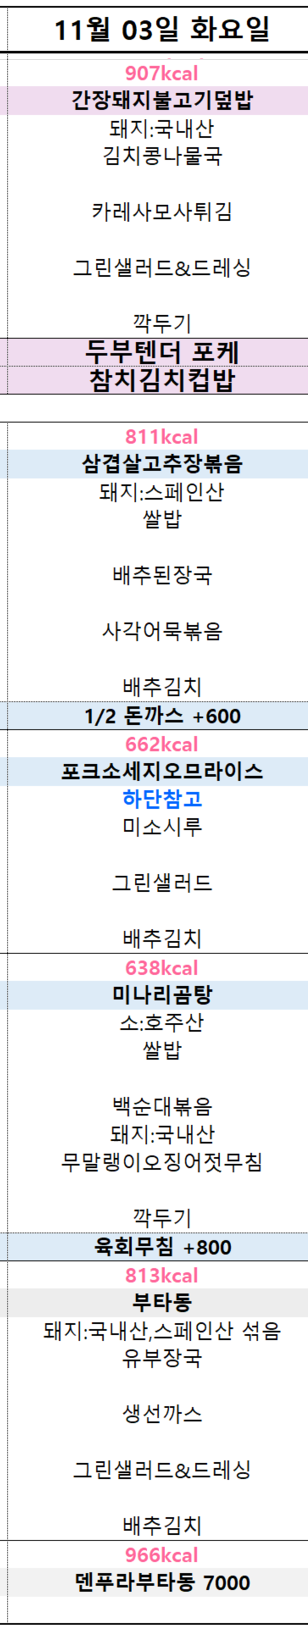
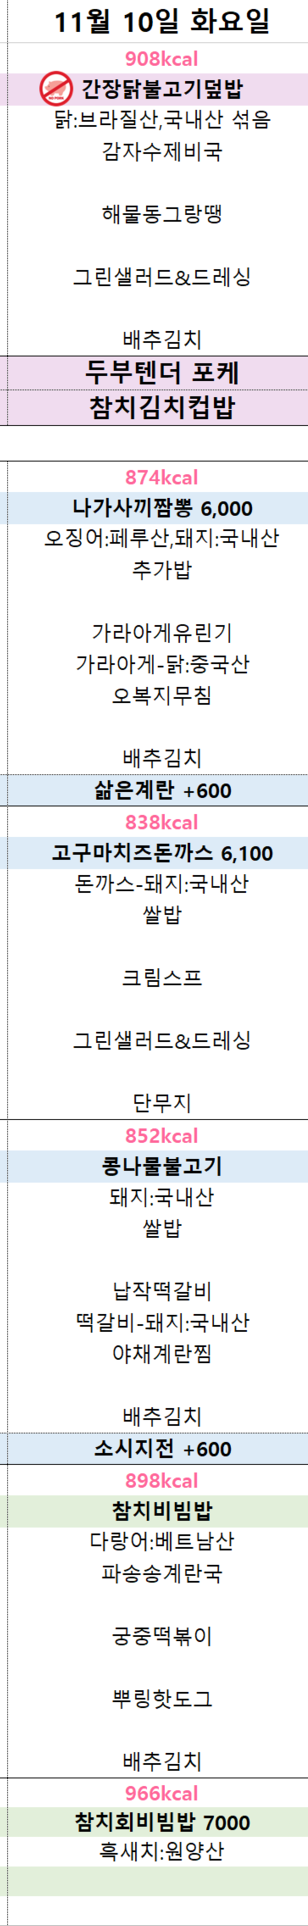
feat(menu): publish reviewed November 9-13 meals and complete day crops

diff --git a/sw.js b/sw.js
@@ -1,4 +1,4 @@
-const CACHE = 'khu-meals-v15';
+const CACHE = 'khu-meals-v16';
 const ASSETS = ['./', './index.html', './manifest.webmanifest', './icon.svg'];
 self.addEventListener('install', event => event.waitUntil(caches.open(CACHE).then(cache => cache.addAll(ASSETS)).then(() => self.skipWaiting())));
 self.addEventListener('activate', event => event.waitUntil(caches.keys().then(keys => Promise.all(keys.filter(key => key !== CACHE).map(key => caches.delete(key)))).then(() => self.clients.claim())));

diff --git a/tests/test_day_crops.py b/tests/test_day_crops.py
@@ -1,0 +1,55 @@
+"""Day-image coverage across the reviewed short and tall table layouts."""
+
+import importlib.util
+from io import BytesIO
+from pathlib import Path
+import unittest
+
+from PIL import Image, ImageChops, ImageDraw
+
+ROOT = Path(__file__).resolve().parents[1]
+SPEC = importlib.util.spec_from_file_location("crop_updater", ROOT / "scripts/update-menu.py")
+assert SPEC is not None and SPEC.loader is not None
+updater = importlib.util.module_from_spec(SPEC)
+SPEC.loader.exec_module(updater)
+
+
+class DayCropTests(unittest.TestCase):
+    def test_day_strips_preserve_dates_and_every_student_row_without_faculty_or_origin(self):
+        # Synthetic geometry reproduces the two visually reviewed source layouts.
+        for height, student_top, student_bottom in [(2782, 467, 2350), (2479, 482, 2046)]:
+            with self.subTest(height=height):
+                image = Image.new("RGB", (1920, height), "white")
+                draw = ImageDraw.Draw(image)
+                for top, bottom in [(100, 101), (145, 146), (student_top - 2, student_top - 1),
+                                    (885, 885), (1543, 1543), (1888, 1888),
+                                    (student_bottom, student_bottom)]:
+                    draw.rectangle((40, top, 1880, bottom), fill="black")
+                # Mark printed dates, faculty meals, first/last student rows and origin notes.
+                for day in range(5):
+                    left = int(1920 * (.159 + day * .1625)) + 2
+                    right = int(1920 * (.159 + (day + 1) * .1625)) - 2
+                    for top, bottom, color in [(110, 135, "blue"), (160, 200, "magenta"),
+                                               (student_top + 3, student_top + 30, "green"),
+                                               (student_bottom - 30, student_bottom - 3, "orange"),
+                                               (student_bottom + 10, student_bottom + 30, "red")]:
+                        draw.rectangle((left + 4, top, right - 4, bottom), fill=color)
+                # An antialiased rule pixel must not be mistaken for the origin block.
+                image.putpixel((96, int(height * .785)), (159, 169, 194))
+                buffer = BytesIO()
+                image.save(buffer, format="PNG")
+                strips = updater.crop_days(buffer.getvalue())
+                self.assertEqual(len(strips), 5)
+                for day, raw in enumerate(strips):
+                    left = int(1920 * (.159 + day * .1625)) + 2
+                    right = int(1920 * (.159 + (day + 1) * .1625)) - 2
+                    expected = Image.new("RGB", (right - left, 43 + student_bottom - student_top), "white")
+                    expected.paste(image.crop((left, 102, right, 145)), (0, 0))
+                    expected.paste(image.crop((left, student_top, right, student_bottom)), (0, 43))
+                    actual = Image.open(BytesIO(raw)).convert("RGB")
+                    self.assertEqual(actual.size, expected.size, "full breakfast through special dinner must survive")
+                    self.assertIsNone(ImageChops.difference(actual, expected).getbbox())
+
+
+if __name__ == "__main__":
+    unittest.main()

diff --git a/scripts/update-menu.py b/scripts/update-menu.py
@@ -57,23 +57,24 @@ def find_official_image():
 def crop_days(raw):
     image = Image.open(BytesIO(raw)).convert("RGB")
     width, height = image.size
-    # Preserve the printed dates and all student meals; no menu text is inferred.
-    top = (int(height * .038), int(height * .062))
-    body_top = int(height * .205)
+    # Use full-width table rules, not fixed height fractions or a single colored
+    # pixel: taller menus move breakfast upward and can have white origin notes.
     sample_x = range(40, width - 40, 12)
-    for y in range(int(height * .18), int(height * .25)):
+    rules = []
+    for y in range(int(height * .025), int(height * .95)):
         dark = sum(max(image.getpixel((x, y))) < 125 for x in sample_x)
         if dark > len(sample_x) * .65:
-            body_top = y + 2
-            break
-    # The purple origin-of-ingredients block starts after the final dinner row.
-    origin_top = int(height * .91)
-    for y in range(int(height * .78), int(height * .94)):
-        red, green, blue = image.getpixel((int(width * .05), y))
-        if blue > red + 15 and blue > green + 15 and red > 140:
-            origin_top = y
-            break
-    body = (body_top, origin_top)
+            if rules and y == rules[-1][1] + 1:
+                rules[-1][1] = y
+            else:
+                rules.append([y, y])
+    header_rules = [rule for rule in rules if rule[0] < height * .09]
+    student_starts = [rule for rule in rules if height * .10 < rule[0] < height * .30]
+    student_ends = [rule for rule in rules if height * .70 < rule[0] < height * .92]
+    if len(header_rules) < 2 or not student_starts or not student_ends:
+        raise RuntimeError("식단표의 날짜·학생식당 경계선을 확인하지 못했습니다")
+    top = (header_rules[0][1] + 1, header_rules[1][0])
+    body = (student_starts[0][1] + 1, student_ends[-1][0])
     output = []
     for day in range(5):
         left = int(width * (.159 + day * .1625)) + 2
@@ -132,7 +133,7 @@ def main(*, publish_reviewed=False):
         "weekStart": image_week.isoformat(),
         "updatedAt": datetime.now(KST).strftime("%Y-%m-%d %H:%M KST"),
         "sha256": digest,
-        "layoutVersion": 4,
+        "layoutVersion": 5,
     }
     review_week_allowed = image_week == current_week or (
         today.weekday() == 6 and image_week == current_week + timedelta(days=7))
@@ -158,7 +159,7 @@ def main(*, publish_reviewed=False):
                 json.dumps(metadata, ensure_ascii=False, indent=2) + "\n", encoding="utf-8")
             print(f"공식 식단 변경 검토 대기: {uploaded} (기존 검증 식단 유지)")
             return
-        if old.get("sha256") == digest and old.get("sourceImage") == url and old.get("layoutVersion") == 4 and FULL.exists() and all(p.exists() for p in DAY_FILES):
+        if old.get("sha256") == digest and old.get("sourceImage") == url and old.get("layoutVersion") == 5 and FULL.exists() and all(p.exists() for p in DAY_FILES):
             (DATA / "pending-menu.json").unlink(missing_ok=True)
             print(f"변경 없음: {uploaded} 공식 식단 이미지")
             return

diff --git a/tests/test_update_menu.py b/tests/test_update_menu.py
@@ -30,7 +30,10 @@ class FrozenDateTime(datetime):
 
 def menu_image(meal):
     image = Image.new("RGB", (400, 600), "white")
-    ImageDraw.Draw(image).text((100, 200), meal, fill="black")
+    draw = ImageDraw.Draw(image)
+    draw.text((100, 200), meal, fill="black")
+    for y in (24, 35, 120, 500):
+        draw.line((0, y, 399, y), fill="black")
     output = io.BytesIO()
     image.save(output, format="PNG")
     return output.getvalue()
@@ -58,7 +61,7 @@ class UpdateMenuTests(unittest.TestCase):
             "weekStart": "2026-10-26",
             "updatedAt": "2026-10-26 09:00 KST",
             "sha256": hashlib.sha256(self.old_raw).hexdigest(),
-            "layoutVersion": 4,
+            "layoutVersion": 5,
             "fullImage": "./data/official-menu.png",
             "dayImages": [f"./data/{path.name}" for path in self.day_files],
         }
@@ -114,7 +117,7 @@ class UpdateMenuTests(unittest.TestCase):
             "weekStart": "2026-10-26",
             "updatedAt": "2026-10-27 12:00 KST",
             "sha256": hashlib.sha256(self.new_raw).hexdigest(),
-            "layoutVersion": 4,
+            "layoutVersion": 5,
             "status": "review_required",
         })
         self.assertEqual({path.name for path in self.data.iterdir()},
@@ -181,6 +184,17 @@ class UpdateMenuTests(unittest.TestCase):
         self.assertEqual(pending["sourceImage"], self.old_url)
         self.assertEqual(pending["sha256"], hashlib.sha256(self.new_raw).hexdigest())
         self.assertNotEqual(pending["sha256"], self.old["sha256"])
+
+    def test_layout_upgrade_rebuilds_day_images_for_identical_reviewed_source(self):
+        self.old["layoutVersion"] = 4
+        self.write_json(self.meta_path, self.old)
+        self.day_files[0].write_bytes(b"old truncated crop")
+        self.cards["sourceSha256"] = self.old["sha256"]
+        self.write_json(self.cards_path, self.cards)
+        self.run_update(url=self.old_url, raw=self.old_raw,
+                        uploaded=date(2026, 10, 23), publish_reviewed=True)
+        self.assertEqual([path.read_bytes() for path in self.day_files], updater.crop_days(self.old_raw))
+        self.assertEqual(json.loads(self.meta_path.read_text(encoding="utf-8"))["layoutVersion"], 5)
 
     def test_identical_verified_url_and_digest_needs_no_pending(self):
         self.run_update(url=self.old_url, raw=self.old_raw, uploaded=date(2026, 10, 23))
